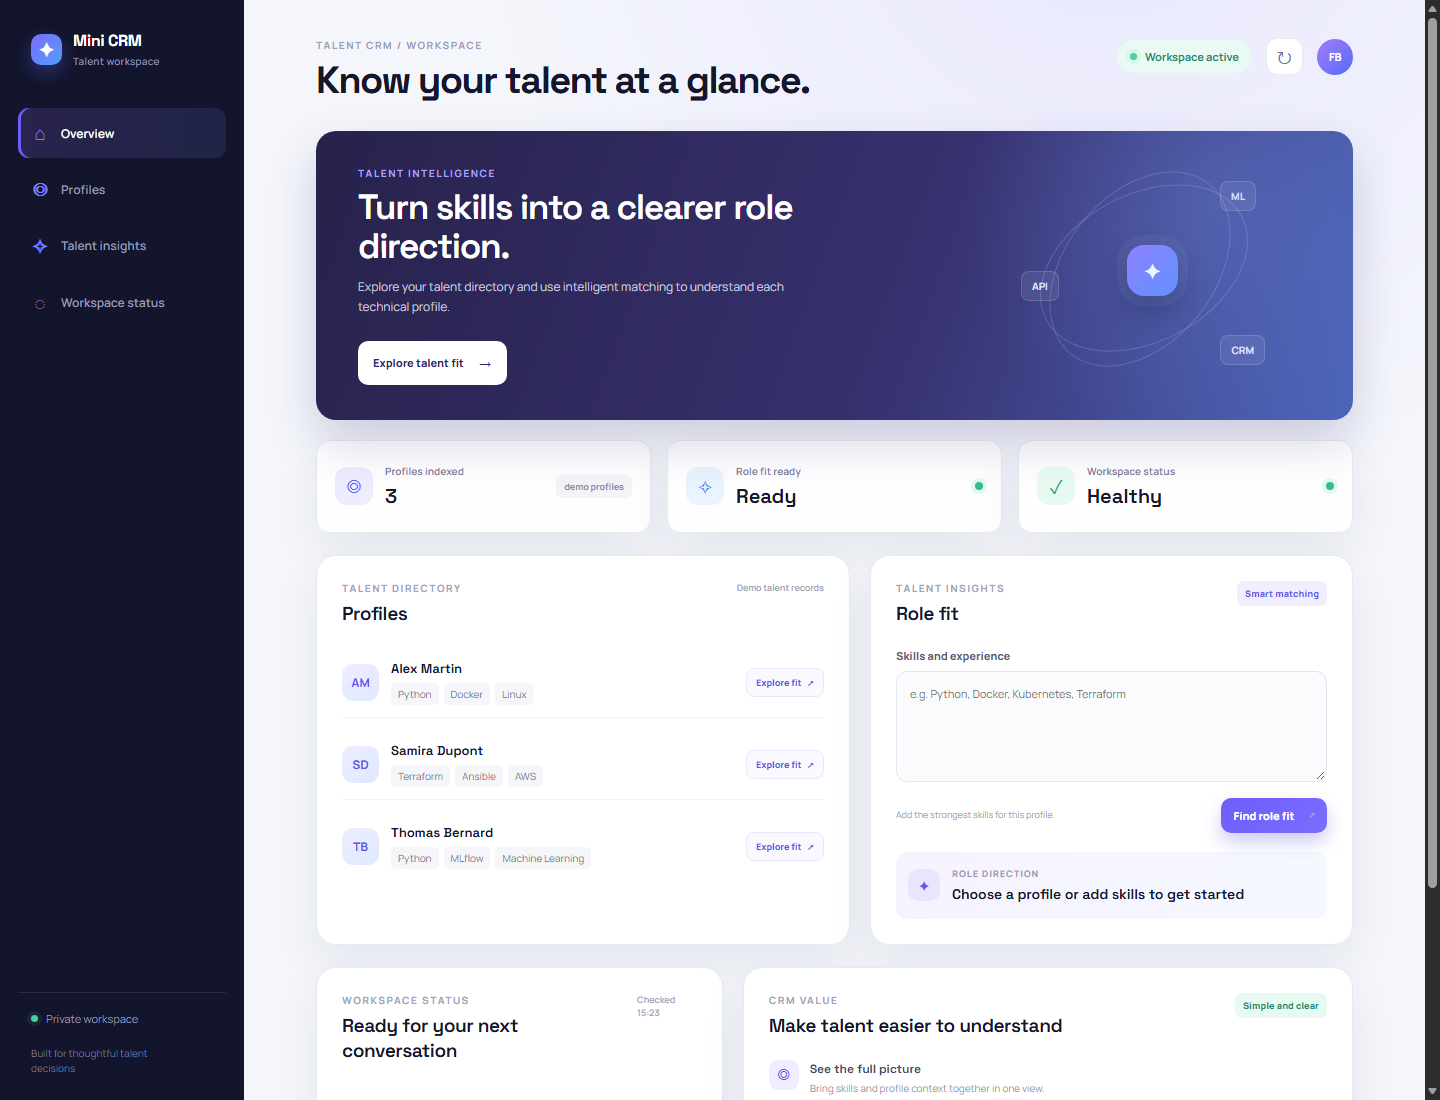
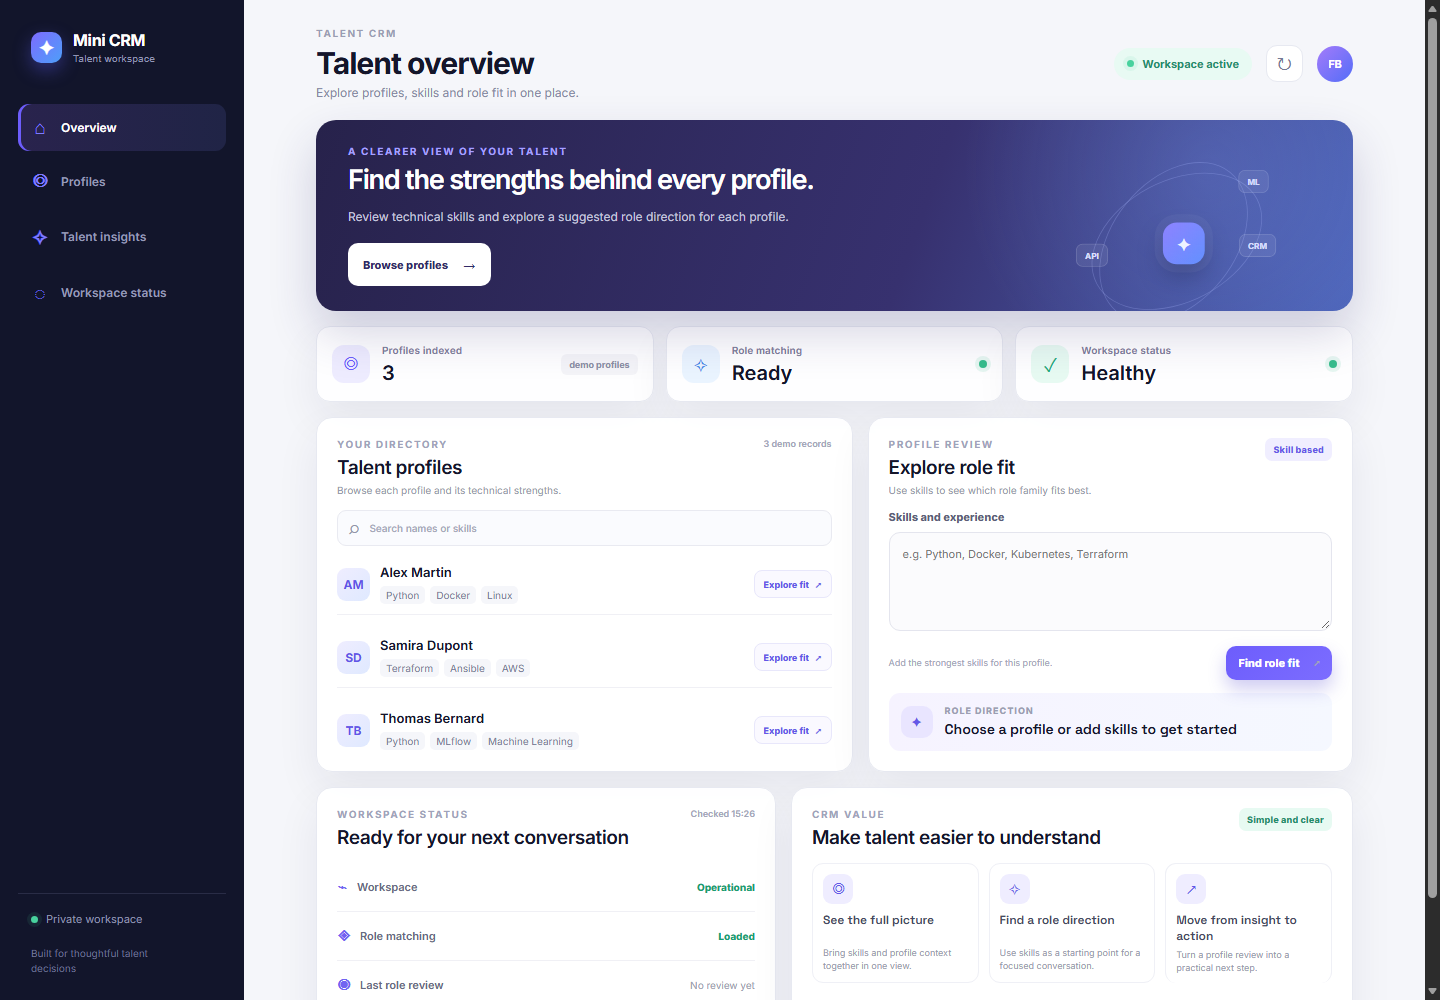
style(ui): organize CRM dashboard and directory

diff --git a/app/static/index.html b/app/static/index.html
@@ -29,8 +29,9 @@
       <main class="main-content" id="overview">
         <header class="topbar">
           <div>
-            <p class="eyebrow">TALENT CRM / WORKSPACE</p>
-            <h1>Know your talent at a glance.</h1>
+            <p class="eyebrow">TALENT CRM</p>
+            <h1>Talent overview</h1>
+            <p class="topbar-subtitle">Explore profiles, skills and role fit in one place.</p>
           </div>
           <div class="topbar-actions">
             <span class="live-pill"><span class="pulse"></span>Workspace active</span>
@@ -41,10 +42,10 @@
 
         <section class="hero-card" aria-labelledby="hero-title">
           <div class="hero-copy">
-            <p class="hero-kicker">TALENT INTELLIGENCE</p>
-            <h2 id="hero-title">Turn skills into a clearer role direction.</h2>
-            <p>Explore your talent directory and use intelligent matching to understand each technical profile.</p>
-            <a class="primary-button" href="#prediction">Explore talent fit <span>→</span></a>
+            <p class="hero-kicker">A CLEARER VIEW OF YOUR TALENT</p>
+            <h2 id="hero-title">Find the strengths behind every profile.</h2>
+            <p>Review technical skills and explore a suggested role direction for each profile.</p>
+            <a class="primary-button" href="#profiles">Browse profiles <span>→</span></a>
           </div>
           <div class="hero-orbit" aria-hidden="true">
             <div class="orbit orbit-one"></div><div class="orbit orbit-two"></div>
@@ -59,9 +60,9 @@
             <div><p>Profiles indexed</p><strong id="profile-count">—</strong></div>
             <span class="metric-trend">demo profiles</span>
           </article>
-          <article class="metric-card">
+          <article class="metric-card pathway-card">
             <div class="metric-icon blue">✧</div>
-            <div><p>Role fit ready</p><strong id="model-status">Checking</strong></div>
+            <div><p>Role matching</p><strong id="model-status">Checking</strong></div>
             <span class="status-dot" id="model-status-dot"></span>
           </article>
           <article class="metric-card">
@@ -73,12 +74,13 @@
 
         <div class="content-grid">
           <section class="panel profiles-panel" id="profiles" aria-labelledby="profiles-title">
-            <div class="panel-heading"><div><p class="section-kicker">TALENT DIRECTORY</p><h2 id="profiles-title">Profiles</h2></div><span class="panel-caption">Demo talent records</span></div>
+            <div class="panel-heading"><div><p class="section-kicker">YOUR DIRECTORY</p><h2 id="profiles-title">Talent profiles</h2><p class="panel-intro">Browse each profile and its technical strengths.</p></div><span class="panel-caption" id="profile-caption">Demo records</span></div>
+            <label class="profile-search-wrap" for="profile-search"><span>⌕</span><input id="profile-search" type="search" placeholder="Search names or skills" autocomplete="off" /></label>
             <div class="profile-list" id="profile-list"><div class="loading-state">Loading profiles...</div></div>
           </section>
 
           <section class="panel prediction-panel" id="prediction" aria-labelledby="prediction-title">
-            <div class="panel-heading"><div><p class="section-kicker">TALENT INSIGHTS</p><h2 id="prediction-title">Role fit</h2></div><span class="ai-badge">Smart matching</span></div>
+            <div class="panel-heading"><div><p class="section-kicker">PROFILE REVIEW</p><h2 id="prediction-title">Explore role fit</h2><p class="panel-intro">Use skills to see which role family fits best.</p></div><span class="ai-badge">Skill based</span></div>
             <form id="prediction-form" class="prediction-form">
               <label for="skills-input">Skills and experience</label>
               <textarea id="skills-input" name="skills" rows="4" maxlength="1000" placeholder="e.g. Python, Docker, Kubernetes, Terraform" required></textarea>
@@ -94,7 +96,7 @@
             <div class="health-list">
               <div class="health-row"><span class="health-label"><span class="health-icon">⌁</span>Workspace</span><span class="health-value" id="health-value">Checking</span></div>
               <div class="health-row"><span class="health-label"><span class="health-icon">◈</span>Role matching</span><span class="health-value" id="ready-value">Checking</span></div>
-              <div class="health-row"><span class="health-label"><span class="health-icon">◉</span>Decision support</span><span class="health-value" id="predict-value">Ready to use</span></div>
+              <div class="health-row"><span class="health-label"><span class="health-icon">◉</span>Last role review</span><span class="health-value" id="predict-value">No review yet</span></div>
             </div>
           </section>
 

diff --git a/app/static/styles.css b/app/static/styles.css
@@ -1,4 +1,4 @@
-@import url('https://fonts.googleapis.com/css2?family=Manrope:wght@400;500;600;700;800&family=Space+Grotesk:wght@500;600;700&display=swap');
+@import url('https://fonts.googleapis.com/css2?family=Inter:wght@400;500;600;700;800&family=Space+Grotesk:wght@500;600;700&display=swap');
 
 :root { --ink:#16182b; --muted:#8589a3; --line:#e9eaf2; --panel:#fff; --bg:#f6f7fb; --violet:#6d5dfc; --blue:#4f9cf9; --green:#36bd8c; --shadow:0 16px 40px rgba(33,32,74,.06); }
 * { box-sizing:border-box; }
@@ -73,3 +73,38 @@ body { background:radial-gradient(circle at 78% -10%,#e8e7ff 0,transparent 34%),
 .profile-action:hover { color:#fff; border-color:#6d5dfc; background:#6d5dfc; transform:translateY(-1px); }
 .profile-action span { margin-left:4px; }
 @media (max-width:480px) { .profile-action { padding:6px 7px; font-size:8px; } }
+/* Compact CRM layout: keep the directory and matching action in focus. */
+body { font-family:'Inter','Segoe UI',sans-serif; background:#f5f6fa; }
+.brand,.topbar h1,.hero-copy h2,.panel-heading h2,.profile-item h3,.metric-card strong { font-family:'Inter','Segoe UI',sans-serif; }
+.main-content { padding-top:27px; padding-bottom:20px; }
+.topbar { margin-bottom:20px; align-items:center; }
+.topbar-subtitle { margin:6px 0 0; color:#8589a3; font-size:12px; }
+.topbar h1 { font-size:30px; letter-spacing:-1px; }
+.hero-card { min-height:188px; padding:25px 32px; margin-bottom:15px; }
+.hero-copy h2 { max-width:520px; font-size:27px; }
+.hero-copy p:not(.hero-kicker) { margin-bottom:16px; }
+.hero-orbit { transform:scale(.82); transform-origin:center right; }
+.metric-grid { gap:12px; margin-bottom:15px; }
+.metric-card { min-height:76px; padding:13px 15px; }
+.content-grid { gap:15px; margin-bottom:15px; }
+.panel { padding:20px; border-radius:16px; }
+.panel-heading { margin-bottom:14px; }
+.panel-intro { margin:5px 0 0; color:#9397aa; font-size:10px; }
+.profile-search-wrap { display:flex; align-items:center; gap:8px; height:36px; padding:0 11px; margin:0 0 8px; border:1px solid #e9eaf1; border-radius:9px; color:#9094a9; background:#fafbfe; }
+.profile-search-wrap span { font-size:18px; }
+.profile-search-wrap input { width:100%; border:0; outline:0; color:#34374e; background:transparent; font:500 10px 'Inter',sans-serif; }
+.profile-search-wrap input::placeholder { color:#a5a8b8; }
+.profile-item { gap:10px; padding:10px 0; }
+.profile-avatar { width:33px; height:33px; border-radius:9px; }
+.skill { padding:3px 6px; }
+.prediction-form textarea { min-height:93px; }
+.prediction-result { min-height:58px; margin-top:13px; }
+.lower-grid { grid-template-columns:.9fr 1.1fr; }
+.value-list { grid-template-columns:repeat(3,1fr); gap:10px; }
+.value-row { display:block; padding:10px; border:1px solid #eff0f6; border-radius:11px; }
+.value-icon { margin-bottom:8px; }
+.value-row strong { min-height:30px; }
+.value-row p { font-size:9px; }
+.empty-state { padding:22px 4px; color:#8f93a8; font-size:11px; }
+@media (max-width:1050px) { .value-list { grid-template-columns:1fr; }.value-row { display:flex; padding:10px 0; border:0; border-bottom:1px solid #f0f0f5; border-radius:0; }.value-icon { margin:0; }.value-row strong { min-height:0; } }
+@media (max-width:700px) { .main-content { padding-top:20px; }.topbar-subtitle { max-width:250px; }.topbar h1 { font-size:25px; }.hero-card { min-height:220px; padding:22px; }.hero-copy h2 { font-size:24px; }.panel { padding:17px; }.profile-action { font-size:9px; } }

diff --git a/app/static/app.js b/app/static/app.js
@@ -19,15 +19,18 @@ function escapeHtml(value) {
 }
 
 function renderProfiles(profiles) {
+  const query = $("#profile-search").value.trim().toLowerCase();
+  const visible = profiles.filter((profile) => `${profile.name} ${profile.skills.join(" ")}`.toLowerCase().includes(query));
   $("#profile-count").textContent = profiles.length;
-  $("#profile-list").innerHTML = profiles.map((profile) => `
+  $("#profile-caption").textContent = query ? `${visible.length} matching` : `${profiles.length} demo records`;
+  $("#profile-list").innerHTML = visible.length ? visible.map((profile) => `
     <article class="profile-item">
       <div class="profile-avatar">${escapeHtml(initials(profile.name))}</div>
       <div><h3>${escapeHtml(profile.name)}</h3><div class="skill-list">
         ${profile.skills.map((skill) => `<span class="skill">${escapeHtml(skill)}</span>`).join("")}
       </div></div>
       <button class="profile-action" type="button" data-profile-id="${escapeHtml(profile.id)}" aria-label="Explore role fit for ${escapeHtml(profile.name)}">Explore fit <span>↗</span></button>
-    </article>`).join("");
+    </article>`).join("") : '<div class="empty-state">No profiles match that search. Try a name or skill.</div>';
   document.querySelectorAll(".profile-action").forEach((button) => {
     button.addEventListener("click", () => {
       const profile = profiles.find((item) => String(item.id) === button.dataset.profileId);
@@ -64,7 +67,7 @@ async function loadDashboard() {
     renderProfiles(profiles);
     setStatus($("#api-status"), health.status === "healthy" ? "Healthy" : health.status, health.status === "healthy");
     setStatus($("#health-value"), health.status === "healthy" ? "Operational" : health.status, health.status === "healthy");
-    setStatus($("#model-status"), ready.status === "ready" ? "Ready" : ready.status, ready.status === "ready");
+    setStatus($("#model-status"), ready.status === "ready" ? "Ready" : "Unavailable", ready.status === "ready");
     setStatus($("#ready-value"), ready.status === "ready" ? "Loaded" : ready.status, ready.status === "ready");
     $("#api-status-dot").classList.add("ok"); $("#model-status-dot").classList.add("ok");
   } catch (error) {
@@ -94,4 +97,5 @@ $("#prediction-form").addEventListener("submit", async (event) => {
 });
 
 $("#refresh-button").addEventListener("click", loadDashboard);
+$("#profile-search").addEventListener("input", () => renderProfiles(state.profiles));
 loadDashboard();
